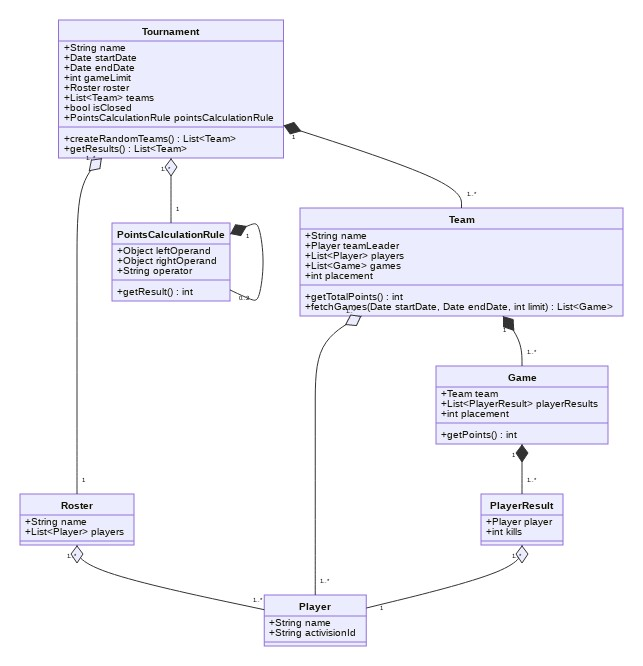
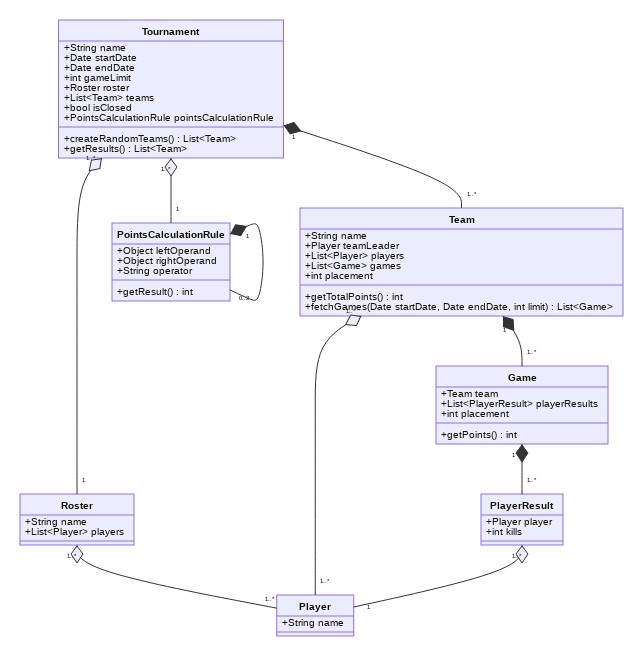
remove references to activision ID

diff --git a/graphql/resolvers/player.js b/graphql/resolvers/player.js
@@ -92,12 +92,6 @@ module.exports = {
         queryFilter.push({ name: { [Op.iLike]: "%" + filter.name + "%" } });
       }
 
-      if (typeof filter.activisionId !== "undefined") {
-        queryFilter.push({
-          activisionId: { [Op.iLike]: "%" + filter.activisionId + "%" },
-        });
-      }
-
       logger.debug("Player search", { fields: logFields });
 
       try {
@@ -136,7 +130,6 @@ module.exports = {
       try {
         return await Player.create({
           name: player.name,
-          activisionId: player.activisionId,
         });
       } catch (createError) {
         logger.error(createError, {
@@ -188,7 +181,6 @@ module.exports = {
         const [numberOfAffectedRows, affectedRows] = await Player.update(
           {
             name: player.name,
-            activisionId: player.activisionId,
           },
           { where: { id: id }, returning: true, plain: true }
         );

diff --git a/migrations/20201021152727-create-player.js b/migrations/20201021152727-create-player.js
@@ -8,7 +8,6 @@ module.exports = {
         `CREATE TABLE players (
           id             UUID PRIMARY KEY DEFAULT uuid_generate_v4(),
           name           TEXT UNIQUE NOT NULL,
-          activision_id  TEXT UNIQUE NOT NULL,
           created_at     TIMESTAMP WITH TIME ZONE NOT NULL,
           updated_at     TIMESTAMP WITH TIME ZONE NOT NULL
         );`,

diff --git a/models/player.js b/models/player.js
@@ -38,11 +38,6 @@ module.exports = (sequelize, DataTypes) => {
         allowNull: false,
         unique: true,
       },
-      activisionId: {
-        type: DataTypes.TEXT,
-        allowNull: false,
-        unique: true,
-      },
     },
     {
       sequelize,
